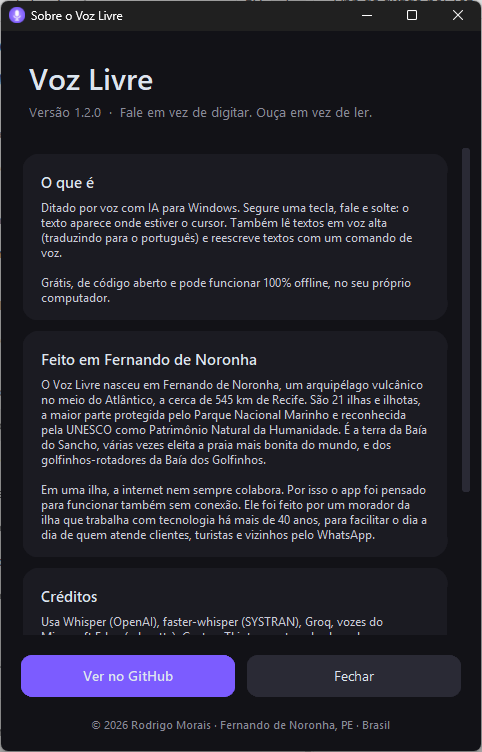
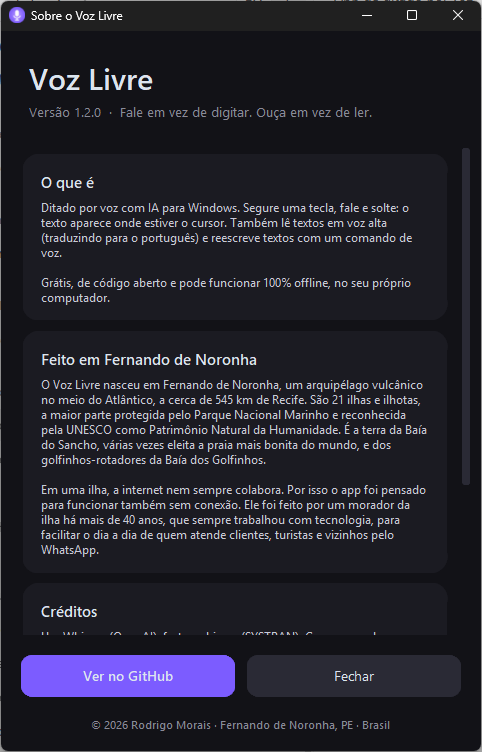
Corrige o texto do Sobre: morador da ilha há mais de 40 anos
Claude-Session: https://claude.ai/code/session_01JG3bhzm2wqTFVW5Zn3xHKY

Changed region(s): [[0.0622, 0.6729, 0.8714, 0.734], [0.0622, 0.7646, 0.8091, 0.8564], [0.9647, 0.6423, 0.9959, 0.6729]]

diff --git a/voz_livre.py b/voz_livre.py
@@ -1,10 +1,10 @@
-# Voz Livre - ditado por voz para Windows: segure a tecla, fale, solte e o texto aparece onde o cursor estiver.
+# Voz Livre - ditado por voz para Windows: segure a tecla, fale, solte e o texto aparece onde o cursor estiver.
 # Abrir:      pythonw voz_livre.py   (ou o atalho criado pelo instalar.bat)
 # Configurar: icone na bandeja (perto do relogio) > "Configurações"
 # Licenca MIT - https://github.com/rodrigoranda/voz-livre
 import os, sys, json, time, threading, io, wave, logging, subprocess
 
-VERSAO = "1.2.0"
+VERSAO = "1.2.1"
 BASE = os.path.dirname(os.path.abspath(__file__))
 CFG = os.path.join(BASE, "config.json")
 PADRAO = {"tecla": "ctrl+windows", "motor": "pc", "tecla_ler": "ctrl+shift+l", "voz": "pt-BR-FranciscaNeural",

diff --git a/sobre.py b/sobre.py
@@ -22,8 +22,8 @@ TEXTO_NORONHA = (
     "Natural da Humanidade. É a terra da Baía do Sancho, várias vezes eleita a praia "
     "mais bonita do mundo, e dos golfinhos-rotadores da Baía dos Golfinhos.\n\n"
     "Em uma ilha, a internet nem sempre colabora. Por isso o app foi pensado para "
-    "funcionar também sem conexão. Ele foi feito por um morador da ilha que trabalha "
-    "com tecnologia há mais de 40 anos, para facilitar o dia a dia de quem atende "
+    "funcionar também sem conexão. Ele foi feito por um morador da ilha há mais de 40 "
+    "anos, que sempre trabalhou com tecnologia, para facilitar o dia a dia de quem atende "
     "clientes, turistas e vizinhos pelo WhatsApp."
 )
 

diff --git a/README.md b/README.md
@@ -41,7 +41,7 @@ Todas as teclas podem ser trocadas nas Configurações.
 
 O **Voz Livre** nasceu em **Fernando de Noronha**, um arquipélago vulcânico no meio do Oceano Atlântico, a cerca de 545 km de Recife. São 21 ilhas e ilhotas, a maior parte protegida pelo **Parque Nacional Marinho** e reconhecida pela **UNESCO como Patrimônio Natural da Humanidade**. É a terra da **Baía do Sancho**, várias vezes eleita a praia mais bonita do mundo, e dos golfinhos-rotadores da Baía dos Golfinhos.
 
-Em uma ilha, a internet nem sempre colabora. Por isso o app foi pensado para **funcionar também sem conexão**, rodando direto no computador. Ele foi criado por **Rodrigo Morais**, morador da ilha que trabalha com tecnologia há mais de 40 anos, para facilitar o dia a dia de quem atende clientes, turistas e vizinhos pelo WhatsApp e não quer pagar assinatura para ditar texto.
+Em uma ilha, a internet nem sempre colabora. Por isso o app foi pensado para **funcionar também sem conexão**, rodando direto no computador. Ele foi criado por **Rodrigo Morais**, morador da ilha há mais de 40 anos que sempre trabalhou com tecnologia, para facilitar o dia a dia de quem atende clientes, turistas e vizinhos pelo WhatsApp e não quer pagar assinatura para ditar texto.
 
 A ideia é simples: uma ferramenta boa, gratuita e aberta, feita no Brasil e em português, que qualquer pessoa pode usar, estudar e melhorar.
 
@@ -265,6 +265,6 @@ Desenvolvido por **Rodrigo Morais**, em Fernando de Noronha 🏝, com a ajuda
 
 **Install:** Python 3.10+, then run `instalar.bat`. Get a free Groq key at [console.groq.com](https://console.groq.com) for the cloud and AI features. The UI is in Portuguese; dictation language is currently fixed to Portuguese (PRs welcome!).
 
-**About:** made in **Fernando de Noronha**, a volcanic archipelago and UNESCO World Heritage Site off the coast of Brazil, by a local who has worked with technology on the island for over 40 years. Island internet is unreliable, which is why Voz Livre can run fully offline.
+**About:** made in **Fernando de Noronha**, a volcanic archipelago and UNESCO World Heritage Site off the coast of Brazil, by a tech-savvy local who has lived on the island for over 40 years. Island internet is unreliable, which is why Voz Livre can run fully offline.
 
 License: MIT.
